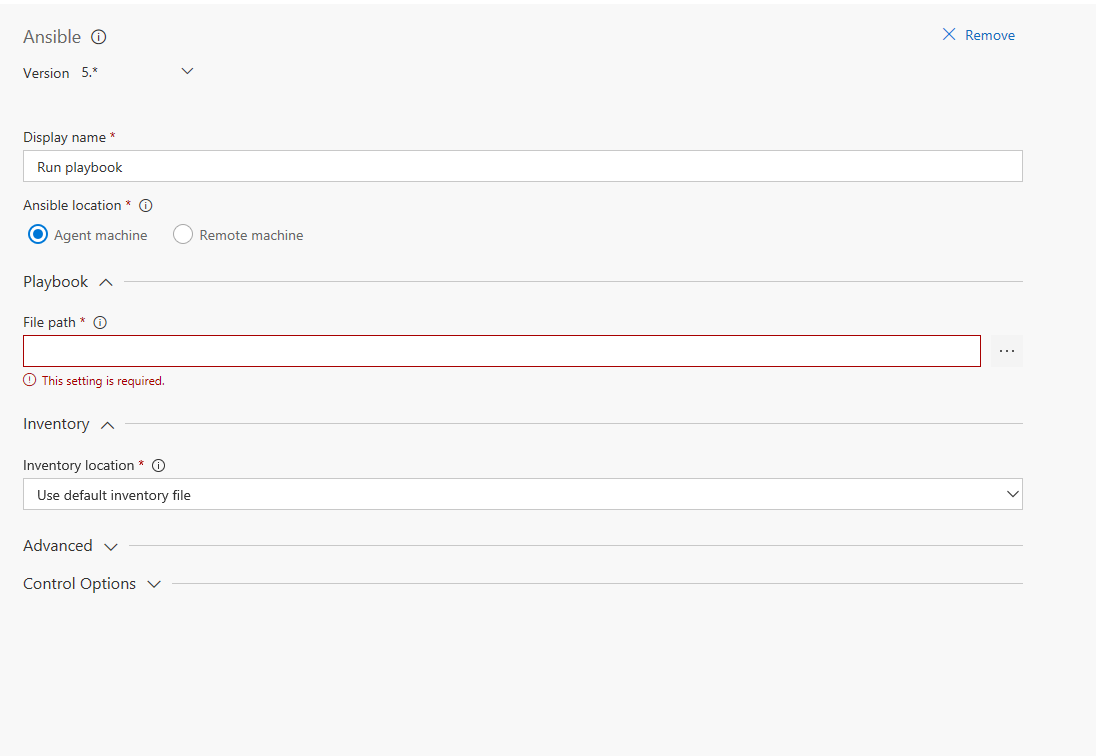
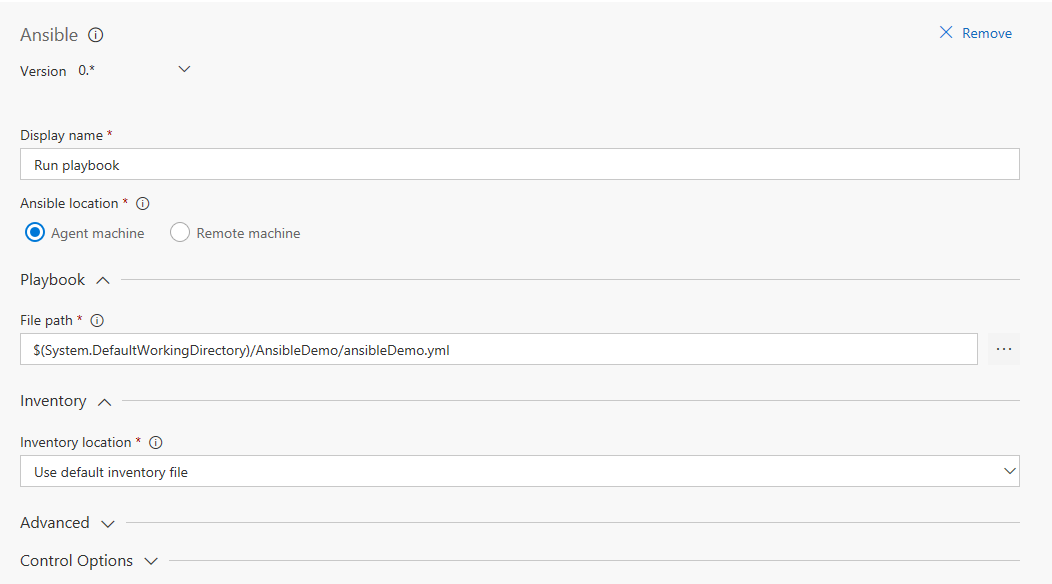
minor UI changes (#242)

diff --git a/Extensions/Ansible/Src/Tasks/Ansible/ansibleCommandLineInterface.ts b/Extensions/Ansible/Src/Tasks/Ansible/ansibleCommandLineInterface.ts
@@ -127,8 +127,8 @@ export class ansibleRemoteMachineInterface extends ansibleCommandLineInterface {
                 throw tl.loc('PlaybookRootNotDirectory', playbookRoot);
             }
 
-            if (!shell.test('-f', playbookFile)) {
-                throw tl.loc('PlaybookNotPresent', path.basename(playbookFile), playbookRoot);
+            if (!shell.test('-f', path.join(playbookRoot,playbookFile))) {
+                throw tl.loc('PlaybookNotPresent', playbookFile, playbookRoot);
             }
 
             let remotePlaybookRoot = '/tmp/' + path.basename(playbookRoot);
@@ -140,7 +140,7 @@ export class ansibleRemoteMachineInterface extends ansibleCommandLineInterface {
 
             await ansibleUtils.copyFileToRemoteMachine(playbookRoot, scpConfig);
 
-            var remotePlaybookPath = remotePlaybookRoot + "/" + path.basename(playbookFile);
+            var remotePlaybookPath = remotePlaybookRoot + "/" + playbookFile;
 
             this._cleanupCmd.push('rm -rf ' + remotePlaybookRoot);
 

diff --git a/Extensions/Ansible/Src/readme.md b/Extensions/Ansible/Src/readme.md
@@ -1,1 +1,62 @@
-TODO
+# ** Ansible extension**
+
+This extension includes a build/release task to integrate with [Ansible](http://docs.ansible.com/ansible/latest/index.html). The task executes a given Ansible playbook on a specified list of inventory nodes via command line interface.
+Ansible is an open-source IT automation engine that can configure systems, deploy software and orchestrate application deployments. 
+Ansible uses [Playbooks](http://docs.ansible.com/ansible/latest/playbooks.html) which express configurations, deployment, and orchestration steps in YAML format. Each Playbook maps a group of hosts to a set of roles. Each role is represented by calls to Ansible tasks. 
+[Inventory](http://docs.ansible.com/ansible/latest/intro_inventory.html) file is a description of the nodes that can be accessed by Ansible. 
+
+This task requires that the Playbook and Inventory files be located either on a private Linux agent or on a remote machine where Ansible automation engine has been installed. Additionally Inventory can also be specified inline or as a Host list.
+
+## ** Prerequisites**
+
+### **Install Ansible automation engine**
+Follow the [installation guidance](http://docs.ansible.com/ansible/latest/intro_installation.html) to install Ansible on a private Linux agent or on a remote machine. Currently Ansible can be run from any machine with Python 2.6 or 2.7 installed (Windows isn’t supported for the control machine).
+	
+### **Create an SSH endpoint**
+The task supports use of an SSH key pair to connect to the remote machine(s). Before you can add this Ansible task to your Build/Release definition, configure an [SSH endpoint](https://www.visualstudio.com/en-us/docs/build/concepts/library/service-endpoints#sep-ssh) in the administration section of your VSTS project.
+	
+	- The hostname or IP address of the remote machine, the port number, and the user name are required to create an SSH endpoint.
+	- The private key and the passphrase must be specified for authentication.
+	- A password can be used to authenticate to remote Linux machines, but this is not supported for Mac or OSX systems.
+	- The public key must be pre-installed or copied to the remote machine(s).
+	
+ ![Ansible SSH Endpoint](Images/ansible_endpoint.png)
+	
+## ** Task ** 
+Installing the extension adds the following Ansible task which runs a given Playbook:
+ ![Run Ansible Playbook](Images/ansible_screen_1.png)
+
+ 
+ ![Run Ansible Playbook](Images/ansible_screen_2.png)
+
+ ## ** Task arguments** 
+ 
+ * **Ansible location**:  Location where Ansible automation engine is installed. Can be either a private agent machine or a remote machine. Ansible communicates with remote machines over SSH and would require the SSH endpoint details.
+ 
+ * **SSH endpoint**\*:  Name of the SSH service endpoint containing connection details for the remote machine where Ansible automation engine has been installed. 
+
+ * **Playbook Source**:  Choose agent machine if playbook is part of a linked artifact and should be copied to the remote Ansible machine. Otherwise, select Ansible machine.
+
+ * **Playbook root **\*:  Specify the working directory path where playbook and associated files are located on the agent machine. All the files in this folder will be copied to Ansible machine.
+
+ * **Playbook file path**\*:  Specify the path to the playbook file to be executed on the Ansible machine. [Playbooks](http://docs.ansible.com/ansible/latest/playbooks.html) declare Ansible’s configuration, deployment, and orchestration steps in YAML format.
+
+ * **Inventory location**:  By default, Ansible Inventory is described by a configuration file, in INI format, whose default location is in /etc/ansible/hosts. Inventory can also be specified as a separate configuration file which lists either the IP address or hostname of each node that is accessible by Ansible. Or can be specified as a Host list of comma separated hosts. Example - foo.example.com, bar.example.com.
+Alternatively Inventory can be specified inline.
+
+ * **Inventory file path**\*:  Specify the path to [inventory](http://docs.ansible.com/ansible/latest/intro_inventory.html) host file on Ansible/Agent machine
+
+ * **Dynamic Inventory**:  Ansible can also use a custom Dynamic Inventory script, which can dynamically pull data from a different system. Check this box if [dynamic inventory](http://docs.ansible.com/ansible/latest/intro_dynamic_inventory.html) is used.
+
+ * **Advanced - Sudo**:  Run operations with sudo. It works only when the Ansible user is sudoer with nopasswd option. 
+This also requires desired sudo user name. \"root\" is used when this field is empty.
+
+ * **Additional arguments**:  The arguments to pass to Ansible command line. Refer to documentation on Ansible [Commands Modules](http://docs.ansible.com/ansible/latest/list_of_commands_modules.html) and [Ad-Hoc Commands](http://docs.ansible.com/ansible/latest/intro_adhoc.html)
+
+ * **Advanced - Fail on STDERR**:  If this option is selected (the default), the build will fail if the remote commands or script write to STDERR.
+
+ * **Control options**:  See [Control options](https://www.visualstudio.com/en-us/docs/build/concepts/process/tasks#controloptions)
+
+### **Contact Information**
+
+For further information or to resolve issues, contact RM_Customer_Queries at Microsoft dot com.
